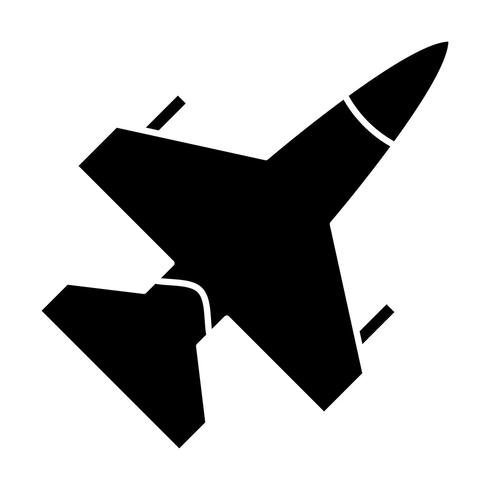
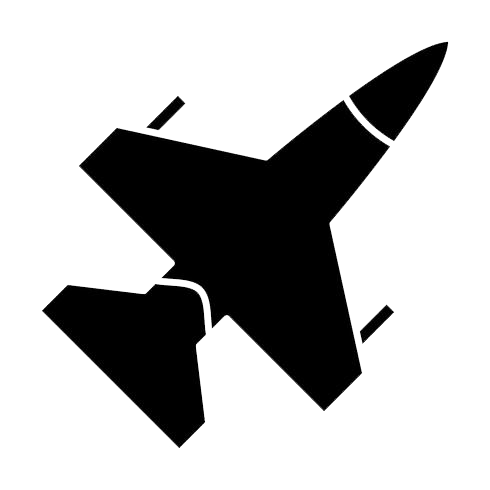
remove background from images. update job-map. tweak css slightly'

diff --git a/frontend/src/components/jobs/job_map.jsx b/frontend/src/components/jobs/job_map.jsx
@@ -1,11 +1,8 @@
 import React, { useEffect, useState, useRef } from "react";
-import { withRouter, link } from 'react-router-dom';
-import Typical from 'react-typical';
 import mapboxgl from 'mapbox-gl';
 import { mapBoxPublicKey } from '../../config/keys_mapbox';
 import MapboxDirections from '@mapbox/mapbox-gl-directions/dist/mapbox-gl-directions'
 
- 
   const JobMap = (props) => {
       const lng = -122.44;
       const lat = 37.76;
@@ -13,9 +10,11 @@ import MapboxDirections from '@mapbox/mapbox-gl-directions/dist/mapbox-gl-direct
      
    const [map, setMap] = useState(null);
    const mapContainer = useRef(null);
+  //  const start = useState(props.address.startAddress)
+  //  const end = useState(props.address.endAddress)
 
-  useEffect(() => {
-    mapboxgl.accessToken = mapBoxPublicKey;
+    useEffect(() => {
+      mapboxgl.accessToken = mapBoxPublicKey;
     const bounds = [
       [-122.54, 37.6], // [west, south]
       [-122.34, 37.9], // [east, north]
@@ -28,17 +27,7 @@ import MapboxDirections from '@mapbox/mapbox-gl-directions/dist/mapbox-gl-direct
         center: [lng, lat], // starting position
         zoom: zoom, // starting zoom
       });
-      // map.addControl(new mapboxgl.NavigationControl());
-      // map.addControl(
-      //   new mapboxgl.GeolocateControl({
-      //     positionOptions: {
-      //       enableHighAccuracy: true,
-      //     },
-      //     trackUserLocation: true,
-      //   })
-      // );
-      // map.addControl(new MapboxDirections({accessToken: mapboxgl.accessToken}), "top-left");
-
+  
       const directions = new MapboxDirections({
         accessToken: mapboxgl.accessToken,
       });
@@ -55,13 +44,8 @@ import MapboxDirections from '@mapbox/mapbox-gl-directions/dist/mapbox-gl-direct
     };
     if (!map) initializeMap({ setMap, mapContainer });
   }, [map]);
-  
 
-  
-  
- 
-// Add zoom and rotation controls to the map.
-
+    // console.log(start)
     return (
       <div className="map_wrapper">
           <div>{props.address.startAddress}</div>
@@ -72,46 +56,5 @@ import MapboxDirections from '@mapbox/mapbox-gl-directions/dist/mapbox-gl-direct
   
 }
 
-
 export default JobMap;
 
-
-
-
-
-
-
-
-
-
-
-//   //   const callScript = () => {
-//     //     const script = document.createElement('script');
-//     //     script.className = 'autocomplete'
-//     //     script.src = `https://maps.googleapis.com/maps/api/js?key=${keys.geocodeKey}&libraries=places`;
-//     //     script.async = true;
-//     //     document.body.appendChild(script);
-//     // };
-//     //     const script = document.createElement('script');
-//     //     script.className = 'autocomplete'
-//     //     script.src = `https://maps.googleapis.com/maps/api/js?key=${keys.geocodeKey}&libraries=places`;
-//     //     script.async = true;
-//     //     document.body.appendChild(script);
-//     // };
-//     //     const script = document.createElement('script');
-//     //     script.className = 'autocomplete'
-//     //     script.src = `https://maps.googleapis.com/maps/api/js?key=${keys.geocodeKey}&libraries=places`;
-//     //     script.async = true;
-//     //     document.body.appendChild(script);
-//     // };
-//     //     document.body.appendChild(script);
-//     // };
-//     //     document.body.appendChild(script);
-//     // };
-//     //     document.body.appendChild(script);
-//     // };
-//     //     document.body.appendChild(script);
-//     // };
-//     // };
-//     // };
-//     // };

diff --git a/frontend/src/components/jobs/job_show.jsx b/frontend/src/components/jobs/job_show.jsx
@@ -7,12 +7,20 @@ const JobShow = (props) => {
     return (
 
       <div>
+        <label className="job_label">Haul Details:
+          <div className="job_info">{props.job.details}</div>
+        </label>
+        <label className="job_label">Origin:
+          <div className="job_info">{props.job.startAddress}</div>
+        </label>
+        <label className="job_label">Destination:
+          <div className="job_info">{props.job.endAddress}</div>
+        </label>
         <button onClick={() => props.updateAddress({startAddress: props.job.startAddress, endAddress: props.job.endAddress})}>View Route</button>
-       <button onClick={() => console.log(props.job.details)}>Click me</button>
-        <div>{props.job.startAddress}</div>
-        <div>{props.job.endAddress}</div>
-        <div>{props.job.description}</div>
       </div>
+
+      // cancel job?
+      //
       // <div>
       //   <div></div>
       //   <Link onClick={console.log(this.state.details)}>

diff --git a/frontend/src/components/jobs/jobs.jsx b/frontend/src/components/jobs/jobs.jsx
@@ -15,11 +15,17 @@ class Job extends React.Component {
         console.log(this.props.jobs)
     }
 
-    componentWillMount(){
+    componentDidMount(){
         this.props.fetchJobs();
     }
 
-    render()   {   
+    componentDidUpdate(prevProps) {
+        if (prevProps.address.startAddress !== this.props.address.startAddress && prevProps.address.endAddress !== this.props.address.endAdress ) {
+            this.props.fetchJobs();
+        }
+    }
+
+    render() {
         return (
             <div id="job_index_container">
                 <div id="job_show_sub_left">
@@ -36,7 +42,8 @@ class Job extends React.Component {
                         ))}
                 </div>
                 <div id="job_show_sub_right">
-                        <JobMapContainer />
+                        <JobMapContainer 
+                        address={this.props.address}/>
                 </div>
             </div>
         )

diff --git a/frontend/src/components/jobs/jobs_container.js b/frontend/src/components/jobs/jobs_container.js
@@ -7,7 +7,8 @@ import {updateAddress, removeAddress} from '../../actions/address_actions'
 
 const mapSTP = (state) => {
     return {
-        jobs: Object.values(state.jobs.all)
+        jobs: Object.values(state.jobs.all),
+        address: state.address
     }
 }
 

diff --git a/frontend/src/components/jobs/job_form_container.js b/frontend/src/components/jobs/job_form_container.js
@@ -9,11 +9,8 @@ const mapSTP = (state) => ({
         type: '',
         startAddress: '',
         endAddress: '',
-        
     }
-    }
-)
-
+})
 
 const mapDTP = dispatch => ({
     createJob: jobData => dispatch(createJob(jobData))

diff --git a/frontend/src/components/jobs/job_map_container.jsx b/frontend/src/components/jobs/job_map_container.jsx
@@ -4,7 +4,7 @@ import {updateAddress, removeAddress} from '../../actions/address_actions'
 
 
 const mSTP = state => ({
-  address: state.address
+  // address: state.address
 })
 
 const mDTP = dispatch => ({

diff --git a/frontend/src/styles/home.scss b/frontend/src/styles/home.scss
@@ -1,6 +1,6 @@
 .wave{
     width: 100%;
-    height: 700px;
+    height: auto;
     position: relative;
     z-index: 0;
     top: 0px;
